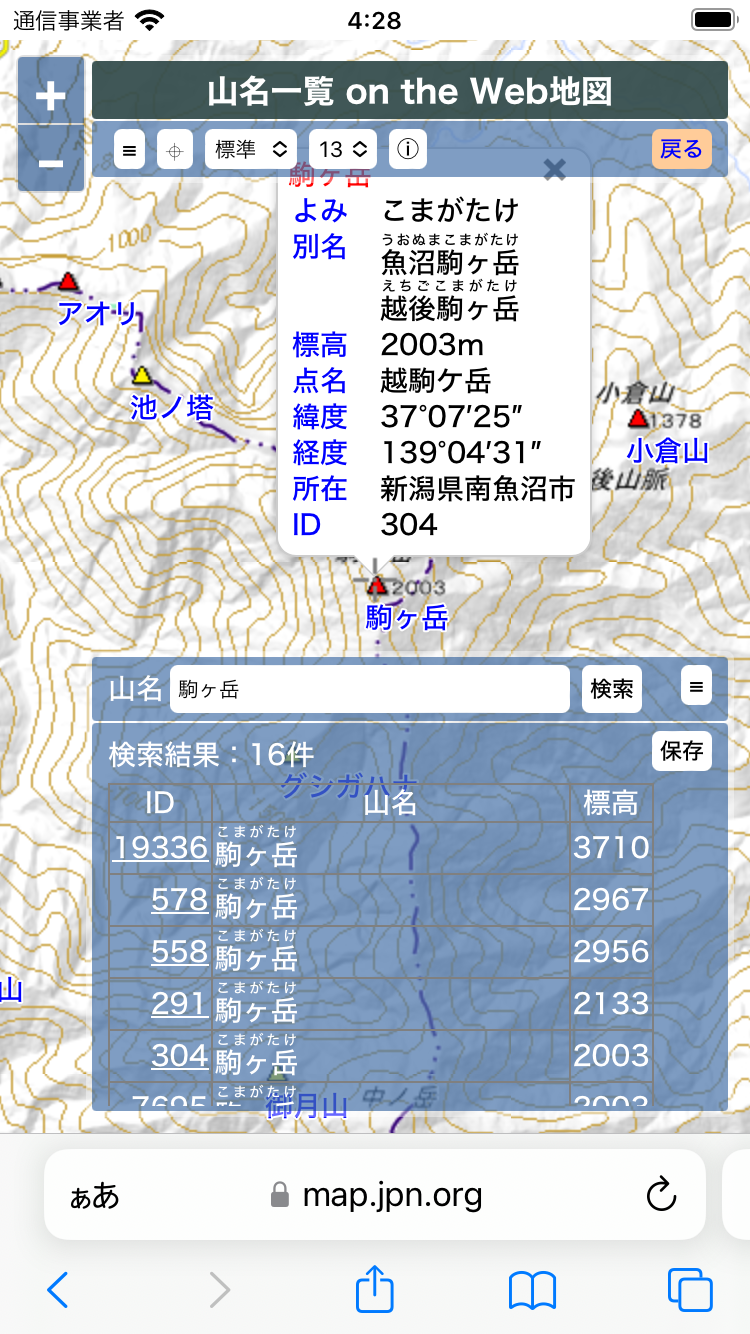
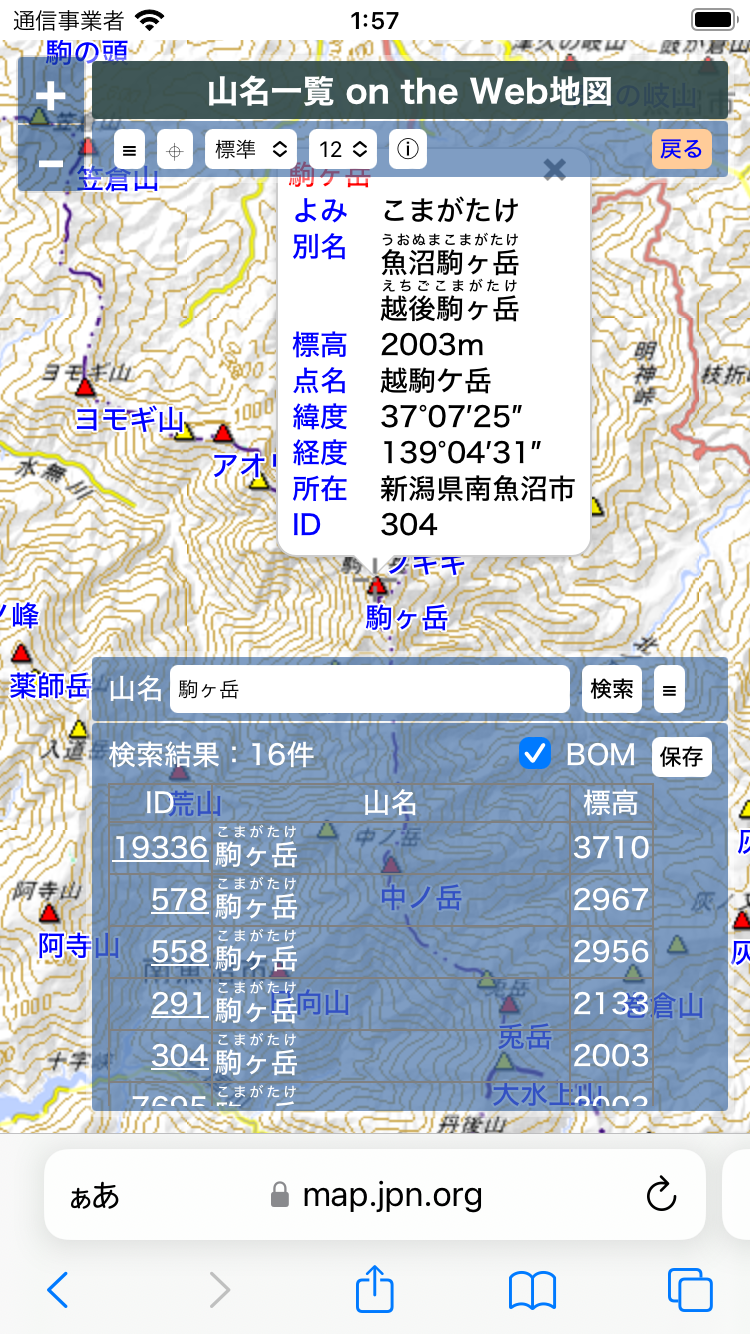
add BOM button

Changed region(s): [[0.0, 0.0, 1.0, 0.8606], [0.644, 0.0922, 0.736, 0.1229], [0.4293, 0.0922, 0.46, 0.1229]]

diff --git a/docs/mountain/help.html b/docs/mountain/help.html
@@ -37,7 +37,7 @@ figure {
 <p>情報の正確性と精度には留意しておりますが、誤りがありましたら<a href="https://map.jpn.org/bbs/">サポート掲示板</a>でお知らせ下さい。未登録の山の情報や、このサイトに関するご意見・ご質問もサポート掲示板へお願いします。</p>
 <h2>ヘルプ</h2>
 <p>例として、本サイトをスマートフォンで表示した場合の画面を図1に示します。PCで表示した場合はレイアウトが変わりますが、操作方法は基本的に同じです。地図をスムーズにスクロールしたり、ズームしたり、回転させることができます。PCの場合の回転は、Shift+Altキーとマウス右ボタンを同時に押しながらマウスカーソルを動かして行います。</p>
-<p>なお、山頂アイコンは、<img src="share/902030.png">が基準点（電子基準点、一等〜四等三角点）、<img src="share/902031.png">が標高点、<img src="share/902029.png">がその他を表します。また、図1にある<span style="color:blue;">榛名山・掃部ヶ岳</span>のような"・"を含む山名は、<span style="color:blue;">総称・ピーク名</span>を表します。総称は原則として山域の最高峰に付記されます。</p>
+<p>なお、山頂アイコンは、<img src="share/902030.png" alt="">が基準点（電子基準点、一等〜四等三角点）、<img src="share/902031.png" alt="">が標高点、<img src="share/902029.png" alt="">がその他を表します。また、図1にある<span style="color:blue;">榛名山・掃部ヶ岳</span>のような"・"を含む山名は、<span style="color:blue;">総称・ピーク名</span>を表します。総称は原則として山域の最高峰に付記されます。</p>
 <figure>
 <img src="mountain/Fig01.png" srcset="mountain/2x/Fig01.png 2x" width="375" height="667" alt="">
 <figcaption>図1 スマートフォンによる表示例</figcaption>
@@ -78,7 +78,7 @@ figure {
 <p><span style="color:blue;">%</span>：山名の先頭や末尾に指定し、任意の文字列を表します。例えば、"<span style="color:blue;">%猫%</span>"で検索すると、漢字の"猫"を含む山名の一覧を表示します。なお、検索結果の件数の上限は1000で、上限を越えた分は表示しません。<br>
 <span style="color:blue;">＠</span>：山名に続いて指定し、続けて所在を記述すると、所在についての前方一致検索を行なって、検索結果を限定します。例えば、"<span style="color:blue;">%@群馬県桐生市</span>"で検索すれば、群馬県桐生市にある山の一覧を表示します。</p>
 <p>その他、検索文字列を数値とすると、数値に一致するIDをもつ山を検索します。特に"<span style="color:blue;">0</span>"で検索すると、最も大きなIDから100件を表示します。これはデータベースに新規に登録した山の確認に用いています。</p>
-<p>"保存"ボタンをクリックすると、検索結果をCSVファイルでダウンロードできます。CSVファイル内の文字コードはUTF-8、緯度、経度はDEG形式（10進表記）です。</p>
+<p>"保存"ボタンをクリックすると、検索結果をCSVファイルでダウンロードして保存できます。ファイル内の文字コードはUTF-8です。Microsoft Excelで読み込む場合は、"BOM"欄にチェックを入れて保存してください。<a href="https://w.wiki/3zyd">Byte Order Mark</a>がファイルの先頭に付加されます。緯度、経度はDEG形式（10進表記）です。</p>
 <h2>クレジット表記</h2>
 <p>この地図の作成にあたっては、国土地理院長の承認を得て、同院発行の数値地図25000（地名・公共施設）を使用した。（承認番号 平29情使、第1007号）</p>
 <p>また、使用しているタイル画像のクレジットは次の表のとおり。</p>
@@ -86,8 +86,8 @@ figure {
 <thead><tr><th>ベースマップ</th><th>クレジット</th></tr></thead>
 <tbody>
 <tr><td>標準、淡色、写真</td><td><a href="https://maps.gsi.go.jp/development/ichiran.html">地理院タイル</a></td></tr>
-<tr><td>OTM</td><td>&copy; <a href="https://openstreetmap.org/copyright">OpenStreetMap</a> contributors,
-&copy; <a href="https://opentopomap.org/">OpenTopoMap</a>
+<tr><td>OTM</td><td>© <a href="https://openstreetmap.org/copyright">OpenStreetMap</a> contributors,
+© <a href="https://opentopomap.org/">OpenTopoMap</a>
 (<a href="https://creativecommons.org/licenses/by-sa/3.0/">CC-BY-SA</a>)</td></tr>
 </tbody>
 </table>

diff --git a/src/mountain.js b/src/mountain.js
@@ -454,10 +454,11 @@ document.forms.form1.addEventListener('submit', function (event) {
 });
 
 document.forms.form2.addEventListener('submit', function (event) {
-  const csv = 'ID,山名,よみ,標高,緯度,経度,備考\n' + result_json.geo.map(x => [
-    x.id, x.name, x.kana, x.alt, x.lat, x.lon, ''
-  ].join()).join('\n') + '\n';
-  const b = new Blob([ csv ], { type: 'text/csv' });
+  const csv = (event.target.elements.bom.checked ? '\uFEFF' : '')
+    + 'ID,山名,よみ,標高,緯度,経度,備考\n'
+    + result_json.geo.map(x => [ x.id, x.name, x.kana, x.alt, x.lat, x.lon, '' ].join()).join('\n')
+    + '\n';
+  const b = new Blob([ csv ], { type: 'text/csv;charset=UTF-8' });
   const a = document.createElement('a');
   a.href = URL.createObjectURL(b);
   a.download = 'result.csv';

diff --git a/src/mountain.html b/src/mountain.html
@@ -98,7 +98,11 @@
         <div id="result" style="display:none;">
           <form name="form2" action="" style="display:flex;">
             <label>検索結果：<span id="count"></span></label>
+            <div>
+            <input id="tb_bom" name="bom" type="checkbox" checked>
+            <label for="tb_bom">BOM</label>
             <button>保存</button>
+            </div>
           </form>
           <div>
             <table>

diff --git a/src/mountain.css b/src/mountain.css
@@ -28,7 +28,7 @@ input:read-only {
 }
 #menu1 button:last-child,
 #menu2 button:last-child,
-.ol-searchbar form button:last-child {
+.ol-searchbar form div:last-child {
   position: absolute;
   right: 8px;
 }
